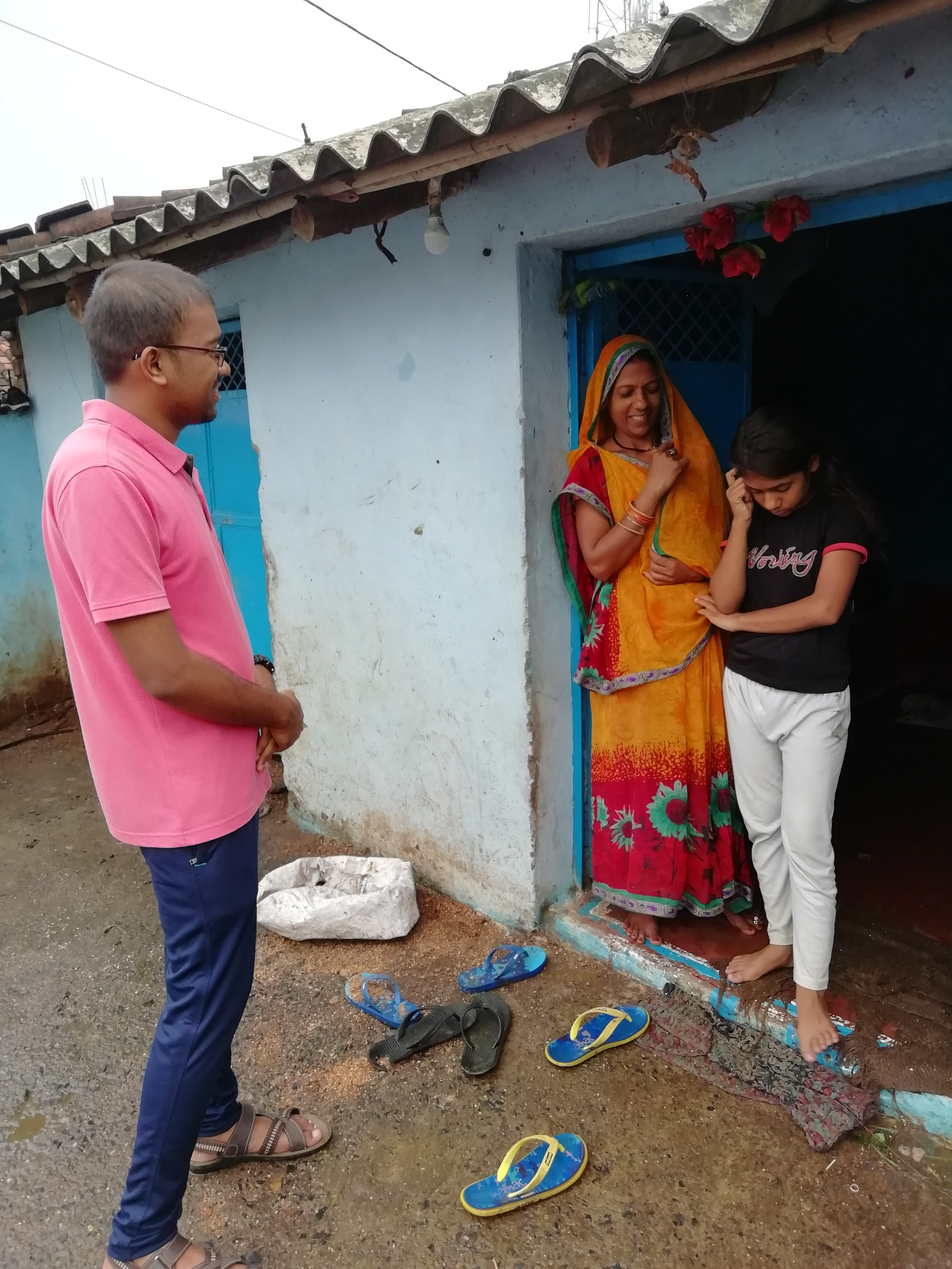
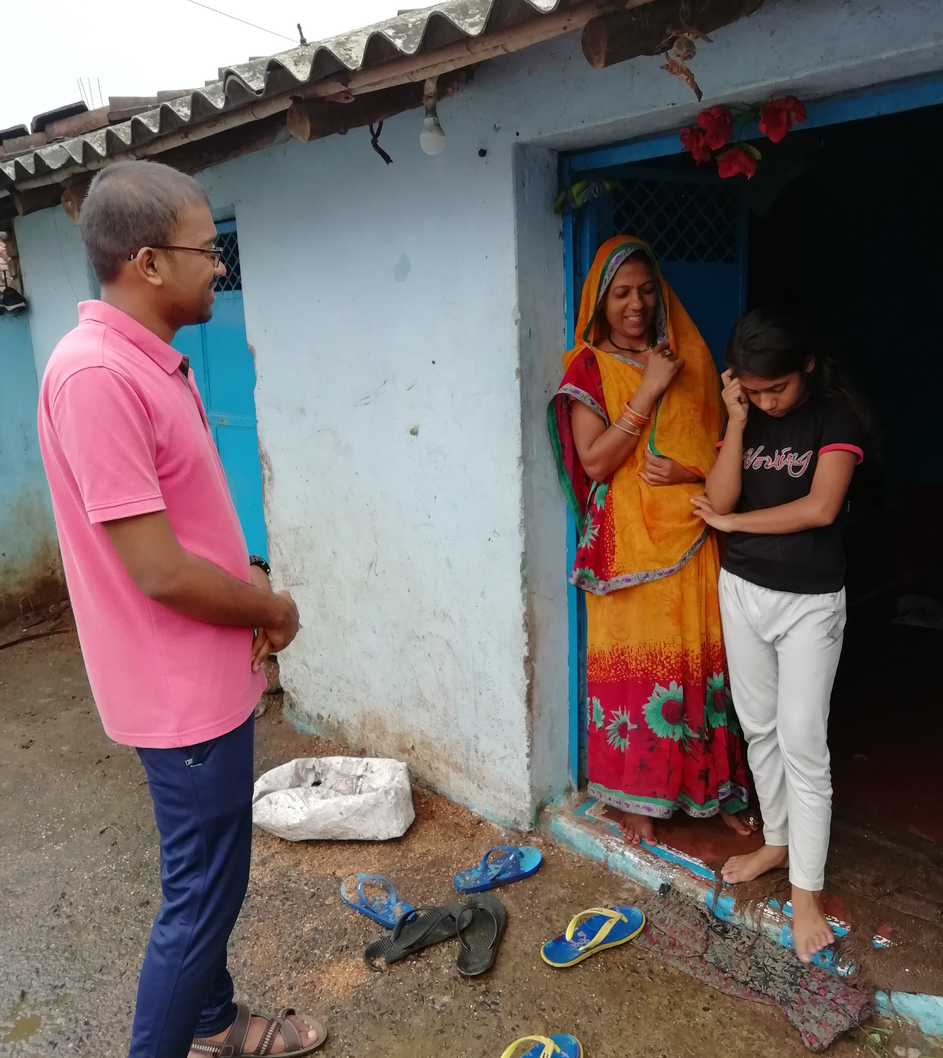
commit

diff --git a/ARTracing.html b/ARTracing.html
@@ -105,36 +105,36 @@ img {vertical-align: middle;}
 <body class="body-5"><div><div data-collapse="medium" data-animation="default" data-duration="400" data-doc-height="1" class="navigation w-nav"><div class="navigation-items"><a href="/" class="logo-link w-nav-brand"><div class="text-block-9">Arnav Nigam</div></a><div class="navigation-wrap"><nav role="navigation" class="navigation-items w-nav-menu"><a href="/" class="navigation-item w-nav-link">HOME</a></nav><div class="menu-button w-nav-button"><img src="https://uploads-ssl.webflow.com/5c80ff16b78f1322a4a9d105/5c80ff17b78f1395faa9d112_menu-icon.png" width="22" alt="" class="menu-icon"/></div></div></div></div><img src="images/intro.PNG" alt=""/></div><div><div class="section-40"><h1 class="heading-jumbo">Augmented Reality Tracing</h1><div class="w-layout-grid grid-12"><h1 class="heading-35">OVERVIEW</h1><div class="text-block-18">Children start learning language-writing with Tracing-Activity sheet. Augmented Reality Tracing is an alternative to Tracing Activity sheet for Pre-school children.<br/><br/>The project was completed under the guidance of Dr. Kaushal Kumar Bhagat, Center for Educational Technology, IIT Kharagpur. </div>
 </div></div></div>
 <div><div class="div-block-78"><div class="section-52"><div class="text-block-29">Behavior is contagious. Insanity is contagious.</div><p class="paragraph-12">— Psychiatry of Pandemics</p></div></div></div>
-<div><div class="div-block-83"><div class="section-37"><h1 class="heading-34">Background</h1><div class="text-block-18">Before start talking about the project, I must take a moment to say how this all started. Inspiration for the project came from Jagrati. Jagrati is a student organization of IIIT Jabalpur, who arranges evening classes for poor children of nearby villages. <br/></div><div class="text-block-24">Here are some pictures</div>
+<div><div class="div-block-83"><div class="section-37"><h1 class="heading-34">Background</h1><div class="text-block-18">Before start talking about the project, I must take a moment to say how this all started. Inspiration for the project came from Jagrati. Jagrati is a student organization of IIIT Jabalpur, who arranges evening classes for poor children of nearby villages. <br/></div><div class="text-block-24">Here are some pictures.</div>
 <div class="slideshow-container">
 
 <div class="mySlides fade">
   <div class="numbertext">1 / 5</div>
-  <img src="images/Class1.jpg" style="width:100%">
+  <img src="images/Class1.jpg" style="width:100%;height:600px;">
   <div class="text">Classes</div>
 </div>
 
 <div class="mySlides fade">
   <div class="numbertext">2 / 5</div>
-  <img src="images/Class2.jpg" style="width:100%">
+  <img src="images/Class2.jpg" style="width:100%;height:600px;">
   <div class="text">Classes</div>
 </div>
 
 <div class="mySlides fade">
   <div class="numbertext">3 / 5</div>
-  <img src="images/Class3.jpg" style="width:100%">
+  <img src="images/Class3.jpg" style="width:100%;height:600px;">
   <div class="text">Classes</div>
 </div>
 
 <div class="mySlides fade">
   <div class="numbertext">4 / 5</div>
-  <img src="images/Camp.jpg" style="width:100%">
+  <img src="images/Camp2.jpg" style="width:100%;height:600px;">
   <div class="text">Door-to-Door Campagining</div>
 </div>
 
 <div class="mySlides fade">
   <div class="numbertext">5 / 5</div>
-  <img src="images/Camp1.jpg" style="width:100%">
+  <img src="images/Camp1.jpg" style="width:100%;height:600px;">
   <div class="text">Door-to-Door Campagining</div>
 </div>
 
